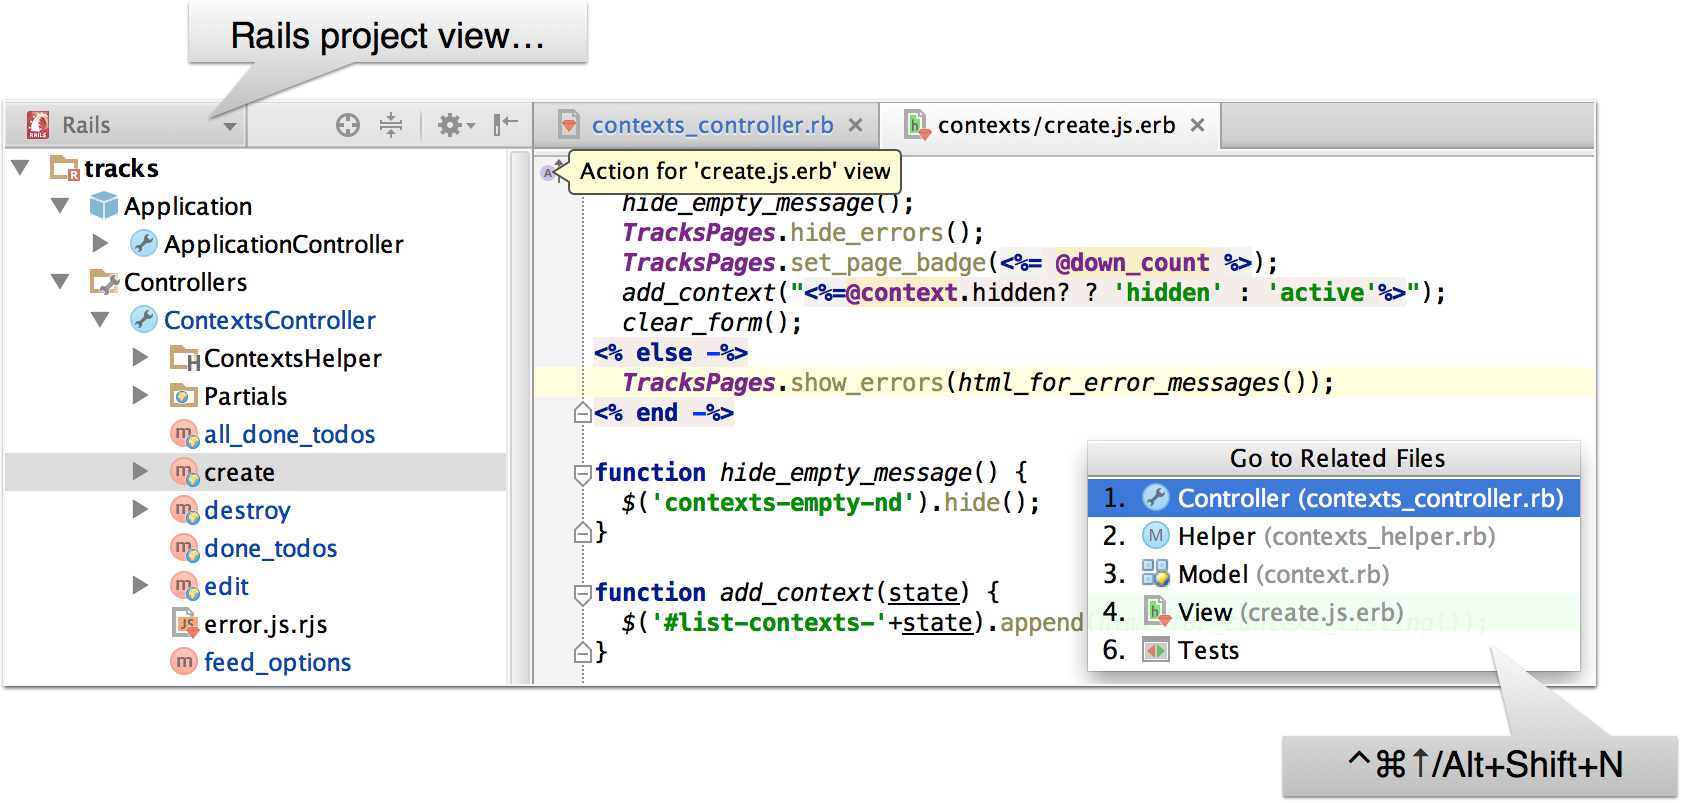
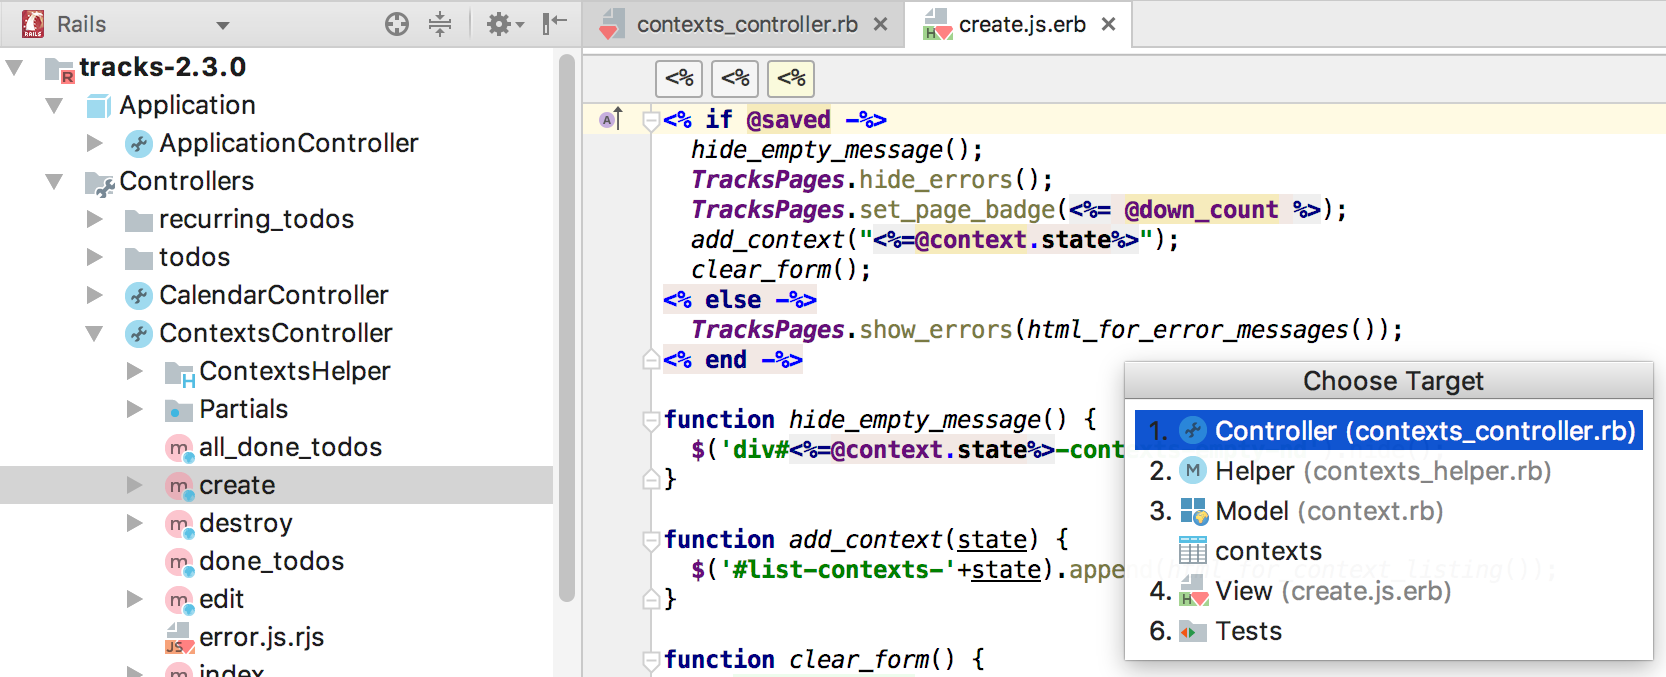
changed screenshots, added more text, other minor fixes

diff --git a/jetbrains-tools.html b/jetbrains-tools.html
@@ -2136,74 +2136,87 @@
 					<h2>Code faster with code completion</h2>
 					<p>
 						<img src="img/screenshots/rubymine/code_faster_with_code_completion.png"
-							 style="box-shadow: none">
+							 >
 					</p>
+					<p>Code completion: <code style="background-color: lightgray">⌃Space/Ctrl+Space</code></p>
+					<p>Quick documentation: <code style="background-color: lightgray">⌃J/Ctrl+Q</code></p>
 				</section>
 
 				<section data-product="rubymine">
 					<h2>Boost your productivity with a smart editor</h2>
 					<p>Code snippets, inline regexp checking, simultaneous tag editing, etc.</p>
 					<p>
-						<img src="img/screenshots/rubymine/boost_productivity_with_smart_editor.png"
-							 style="box-shadow: none">
+						<img src="img/screenshots/rubymine/boost_your_productivity_with_editor_1.png"
+							 >
+						<img src="img/screenshots/rubymine/boost_your_productivity_with_editor_2.png"
+							 >
 					</p>
 				</section>
 
 				<section data-product="rubymine">
 					<h2>Code in many places simultaneously</h2>
 					<p>
-						<img src="img/screenshots/rubymine/code_in_many_places_simultaneously.png"
-							 style="box-shadow: none">
+						<img src="img/screenshots/rubymine/code_in_many_places_simultaneously_1.png"
+							 >
+						<img src="img/screenshots/rubymine/code_in_many_places_simultaneously_2.png"
+						>
 					</p>
 				</section>
 
 				<section data-product="rubymine">
 					<h2>Split the editor horizontally or vertically</h2>
 					<p>
-						<img src="img/screenshots/rubymine/split_the_editor_horizontally_or_vertically.png"
-							 style="box-shadow: none">
+						<img src="img/screenshots/rubymine/split_editor_horizontally_vertically_cut.png"
+							 >
 					</p>
+					<p><code>Context menu | Split Vertically</code></p>
 				</section>
 
 				<section data-product="rubymine">
 					<h2>Fully focus on your code</h2>
 					<p>
 						<img src="img/screenshots/rubymine/fully_focus_on_your_code.png"
-							 style="box-shadow: none">
+							 >
 					</p>
+					<p><code>View | Enter Distraction Free Mode</code></p>
+
 				</section>
 
 				<section data-product="rubymine">
 					<h2>Customize your environment</h2>
 					<p>Color schemes, Vim emulation, TextMate keymap</p>
 					<p>
-						<img src="img/screenshots/rubymine/customize_your_environment.png"
-							 style="box-shadow: none">
-					</p>
+						<img src="img/screenshots/rubymine/customize_environment.png"
+							 >
+					<p ><code>Preferences | Keymap</code></p>
 				</section>
 
 				<section data-product="rubymine">
 					<h2>Enjoy the native dark UI theme</h2>
 					<p>
-						<img src="img/screenshots/rubymine/enjoy_the_native_dark_ui_theme.png"
+						<img src="img/screenshots/rubymine/enjoy_dark_native_ui_theme.png"
 							 style="box-shadow: none">
 					</p>
+					<p><code>Ctrl+Backquote | Look and Feel | Darcula</code></p>
+
 				</section>
 
 				<section data-product="rubymine">
 					<h2>Speed up with smart Rails navigation</h2>
+					<p>Take advantage of the convenient Rails project view</p>
 					<p>
 						<img src="img/screenshots/rubymine/speed_up_with_smart_rails_navigation.png"
-							 style="box-shadow: none">
+							 >
 					</p>
 				</section>
 
 				<section data-product="rubymine">
 					<h2>View & manage model/class/gem dependencies</h2>
 					<p>
-						<img src="img/screenshots/rubymine/view_&_manage_model:class:gem_dependencies.png"
-							 style="box-shadow: none">
+						<img src="img/screenshots/rubymine/view_manage_dependencies.png"
+							 >
 					</p>
+					<p><code style="background-color: lightgray">⌥⌘U/Alt+Ctrl+U</code></p>
 				</section>
 
 				<section data-product="rubymine">
@@ -2211,69 +2224,78 @@
 					<p>for a class, method, variable, etc.</p>
 					<p>
 						<img src="img/screenshots/rubymine/find_code_usages.png"
-							 style="box-shadow: none">
+							 >
 					</p>
+					<p><code style="background-color: lightgray">⌥F7/Alt+F7</code></p>
 				</section>
 
 				<section data-product="rubymine">
 					<h2>Improve your code with quick fixes</h2>
 					<p>Ruby, Rails, JS, CoffeeScript, HTML, HAML, CSS, SCSS, LESS, Sass, YAML</p>
 					<p>
-						<img src="img/screenshots/rubymine/improve_your_code_with_quick_fixes.png"
-							 style="box-shadow: none">
+						<img src="img/screenshots/rubymine/improve_code_with_quick_fixes.png"
+							 >
 					</p>
+					<p><code style="background-color: lightgray">⌥↩/Alt+Enter</code></p>
 				</section>
-
 				<section data-product="rubymine">
 					<h2>Refactor safely</h2>
 					<p>
 						<img src="img/screenshots/rubymine/refactor_safely.png"
 							 style="box-shadow: none">
 					</p>
+					<p><code style="background-color: lightgray">⌃T/Ctrl+Alt+Shift+T</code></p>
 				</section>
 
 				<section data-product="rubymine">
 					<h2>Inspect your code</h2>
 					<p>Inspired by Ruby Style Guide, Roodi, Reek, RoR Code Quality Checklist</p>
 					<p>
-						<img src="img/screenshots/rubymine/inspect_your_code.png"
-							 style="box-shadow: none">
+						<img src="img/screenshots/rubymine/code_inspection.png"
+							 >
 					</p>
+					<p><code>Code | Inspect Code</code></p>
 				</section>
 
 				<section data-product="rubymine">
 					<h2>Use Bundler, RVM, Rake</h2>
 					<p>
 						<img src="img/screenshots/rubymine/use_bundler_rvm_rake.png"
-							 style="box-shadow: none">
+						>
+						<!--<img src="img/screenshots/rubymine/use_bundler_rvm_rake_2.png"-->
+
 					</p>
+					<p><code style="background-color: lightgray">⌥R/Ctrl+Alt+R</code></p>
 				</section>
 
 				<section data-product="rubymine">
 					<h2>Run scripts without leaving the IDE </h2>
 					<p>Rails, IRB, SSH consoles, and local terminal</p>
 					<p>
-						<img src="img/screenshots/rubymine/run_scripts_without_leaving_the_ide.png"
-							 style="box-shadow: none">
+						<img src="img/screenshots/rubymine/run_scripts.png"
+							 >
 					</p>
+					<p><code style="background-color: lightgray">⌥F12/Alt+F12</code></p>
 				</section>
 
 				<section data-product="rubymine">
 					<h2>Enjoy complete VCS integration</h2>
 					<p>Git, SVN, Mercurial, Perforce, CVS</p>
 					<p>
-						<img src="img/screenshots/rubymine/enjoy_complete_vcs_integration.png"
-							 style="box-shadow: none">
+						<img src="img/screenshots/rubymine/vcs.png"
+							 >
 					</p>
+					<p><code style="background-color: lightgray">⌘9/Alt+9</code></p>
 				</section>
 
 				<section data-product="rubymine">
 					<h2>Test with pleasure</h2>
-					<p>Test::Unit, RSpec, Cucumber, Shoulda, or MiniTest</p>
+					<p>RSpec, MiniTest, Test::Unit, Cucumber, Shoulda</p>
 					<p>
 						<img src="img/screenshots/rubymine/test_with_pleasure.png"
-							 style="box-shadow: none">
+							 >
 					</p>
+					<p><code>Run | Run test / All tests in: ...</code></p>
 				</section>
 
 				<section data-product="rubymine">
@@ -2281,8 +2303,9 @@
 					<p>Ruby, Rails, JavaScript, CoffeeScript, RubyMotion</p>
 					<p>
 						<img src="img/screenshots/rubymine/hunt_down_code_flaws_with_debugger.png"
-							 style="box-shadow: none">
+							 >
 					</p>
+					<p><code style="background-color: lightgray">⌃D/Shift+F9</code></p>
 				</section>
 
 				<section data-product="rubymine">
@@ -2290,15 +2313,7 @@
 					<p>HTML(5), HAML, LESS, SCSS, Sass, JavaScript, TypeScript, CoffeeScript, React, Angular 2</p>
 					<p>
 						<img src="img/screenshots/rubymine/enjoy_web_development.png"
-							 style="box-shadow: none">
-					</p>
-				</section>
-
-				<section data-product="rubymine">
-					<h2>Develop iOS, OS X apps with RubyMotion</h2>
-					<p>
-						<img src="img/screenshots/rubymine/develop_ios_osx_apps_with_rubymotion.png"
-							 style="box-shadow: none">
+							 >
 					</p>
 				</section>
 
@@ -2306,16 +2321,16 @@
 					<h2>Manage your infrastructure</h2>
 					<p>Deployment with FTP or SFTP, Vagrant, Capistrano, Chef, Puppet</p>
 					<p>
-						<img src="img/screenshots/rubymine/manage_your_infrastructure.png"
-							 style="box-shadow: none">
+						<img src="img/screenshots/rubymine/manage_infrastructure_1.png"
+							 >
 					</p>
 				</section>
 
 				<section data-product="rubymine">
 					<h2>Runs on all major OSes</h2>
 					<p>
-						<img src="img/screenshots/rubymine/run_on_all_major_OSes.png"
-							 style="box-shadow: none">
+						<img src="img/screenshots/rubymine/run_on_all_major_OSes_1.png"
+							 style="box-shadow: none" >
 					</p>
 				</section>
 

diff --git a/js/playlist.js b/js/playlist.js
@@ -46,8 +46,11 @@ var conferenceType = {
         allProducts.youtrack,
         allProducts.webstorm,
         allProducts.rubymine
-    ]
+    ],
 
+    ruby: [
+        allProducts.rubymine
+    ]
 
 };
 
